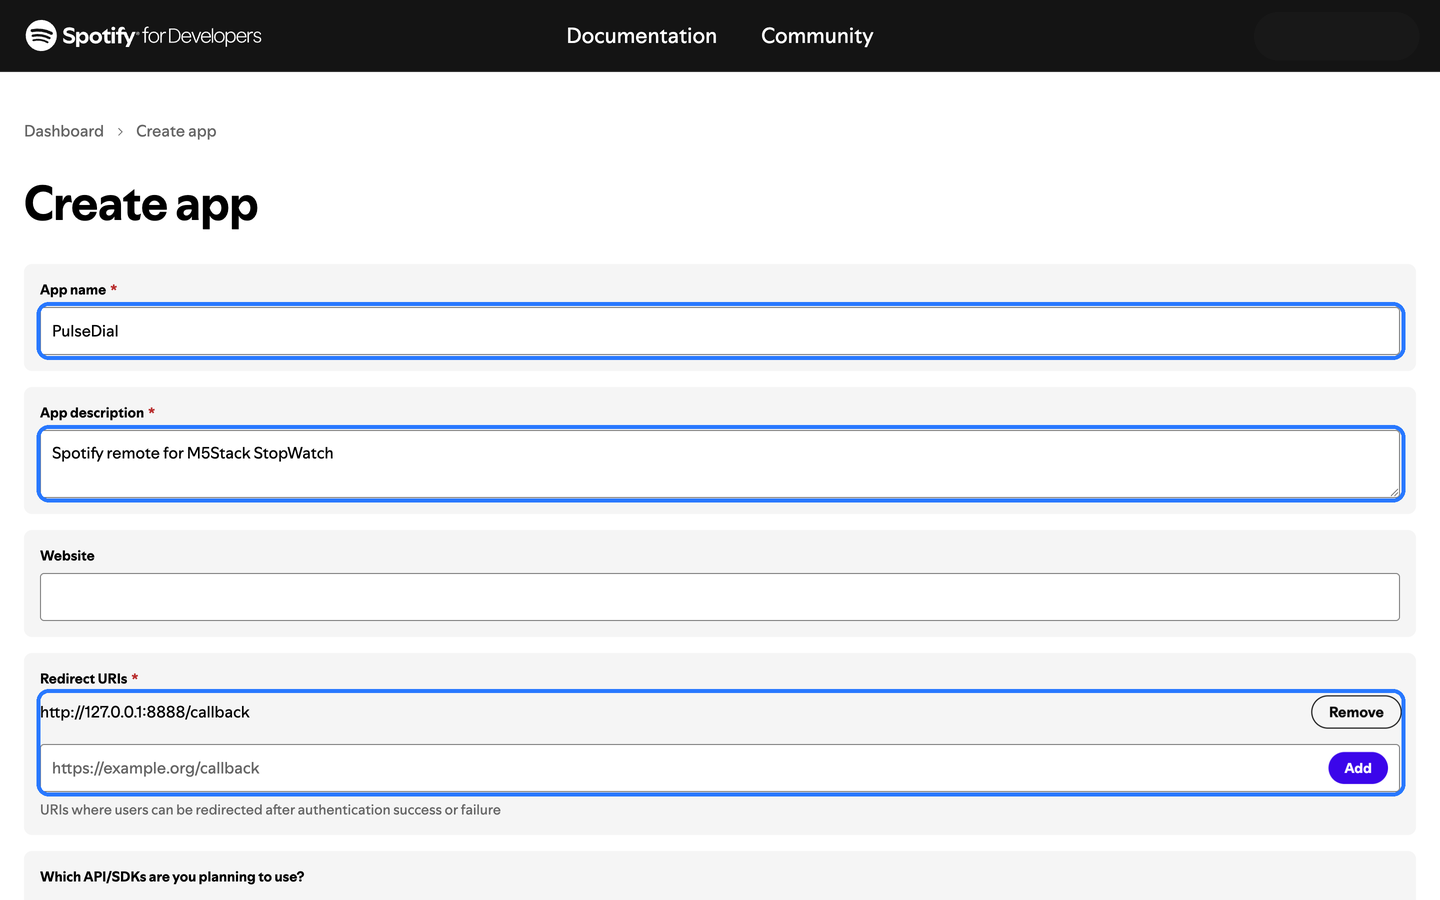
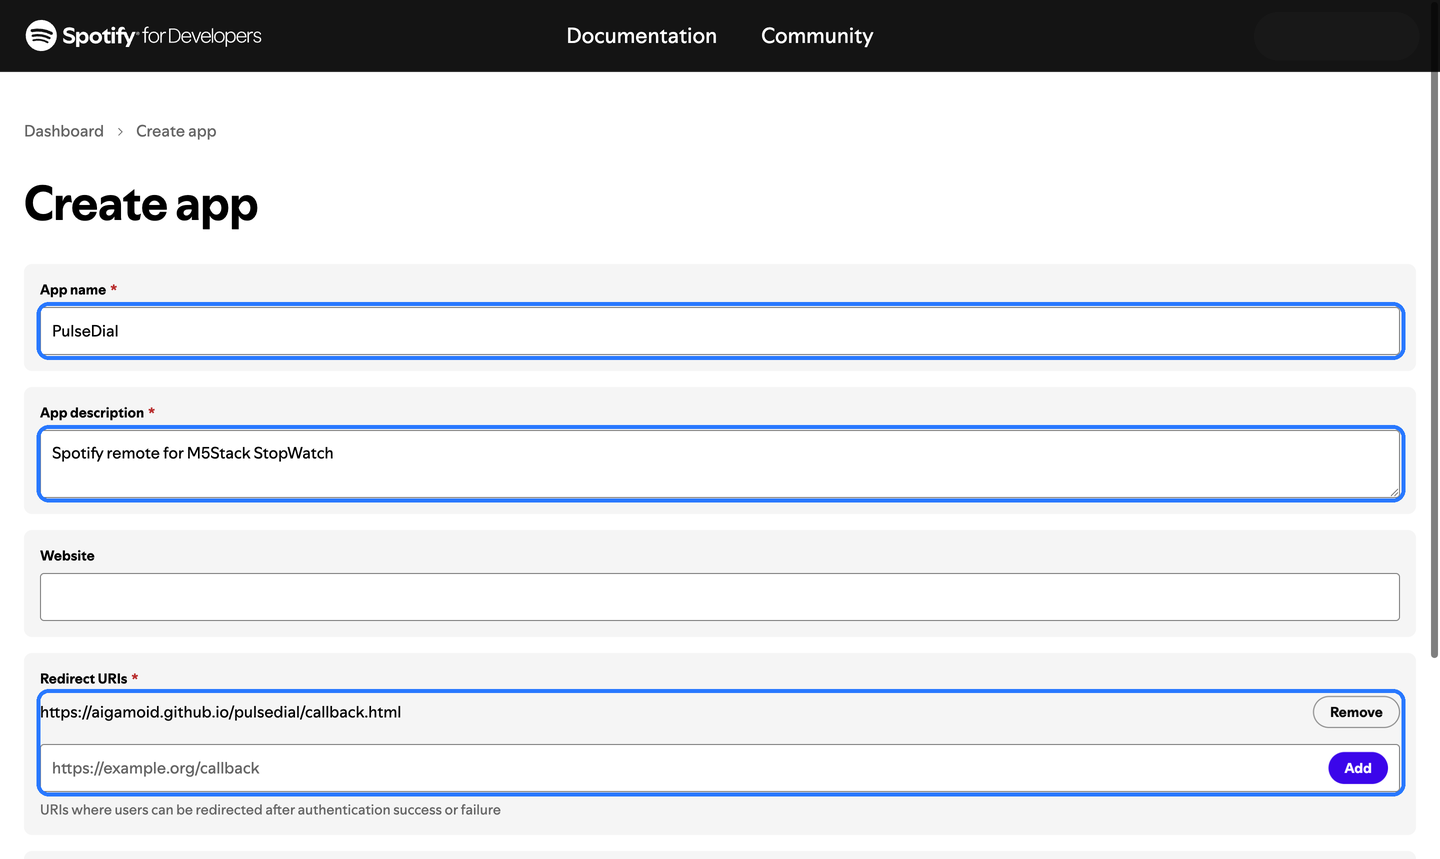
Third-party notices; screenshots with the GitHub Pages redirect URI

diff --git a/THIRD_PARTY_NOTICES.md b/THIRD_PARTY_NOTICES.md
@@ -1,0 +1,26 @@
+# Third-party notices
+
+PulseDial is released under the MIT License (see [LICENSE](LICENSE)). The firmware it builds — and the
+binaries on the web installer page — also contain the following software. Their full license texts are in
+each project's repository; `fetch_repos.py` and `idf.py build` download them into `components/` and
+`managed_components/`.
+
+| Software | License | Source |
+|---|---|---|
+| M5StopWatch-UserDemo (the base of this repository) | MIT | https://github.com/m5stack/M5StopWatch-UserDemo |
+| ESP-IDF | Apache-2.0 | https://github.com/espressif/esp-idf |
+| M5GFX (patched by `patches/M5GFX.patch`) | MIT | https://github.com/m5stack/M5GFX |
+| IPA fonts (Japanese text, inside M5GFX) | IPA Font License v1.0 | https://moji.or.jp/ipafont/ |
+| LVGL | MIT | https://github.com/lvgl/lvgl |
+| mooncake, smooth_ui_toolkit | MIT | https://github.com/Forairaaaaa |
+| mooncake_log | MIT | https://github.com/Forairaaaaa/mooncake_log |
+| ArduinoJson | MIT | https://github.com/bblanchon/ArduinoJson |
+| M5IOE1, M5PM1 | MIT | https://github.com/m5stack |
+| BMI270_BMM150_Sensor | MIT | https://github.com/lbuque |
+| esp-wifi-connect | MIT | https://components.espressif.com/components/78/esp-wifi-connect |
+| esp-dsp, esp_codec_dev, i2c_bus, cmake_utilities | Apache-2.0 | https://components.espressif.com/ |
+| QR Code generator (in `main/apps/app_pulsedial/qrcodegen.*`) | MIT | https://www.nayuki.io/page/qr-code-generator-library |
+| ESP Web Tools (loaded by `docs/index.html`) | Apache-2.0 | https://github.com/esphome/esp-web-tools |
+
+Spotify is a trademark of Spotify AB. M5Stack is a trademark of M5Stack Technology Co., Ltd.
+PulseDial is not affiliated with either.

diff --git a/README.md b/README.md
@@ -177,7 +177,8 @@ Source comments in `app_pulsedial` are mostly in Japanese.
 ## License
 
 MIT (see [LICENSE](LICENSE)). Based on M5StopWatch-UserDemo by M5Stack (MIT).
-Includes the QR Code generator library by Project Nayuki (MIT).
+Includes the QR Code generator library by Project Nayuki (MIT). The firmware also contains ESP-IDF (Apache-2.0),
+LVGL, M5GFX (MIT), IPA fonts and more: see [THIRD_PARTY_NOTICES.md](THIRD_PARTY_NOTICES.md).
 The upstream README is kept as [README.upstream.md](README.upstream.md).
 
 ---
